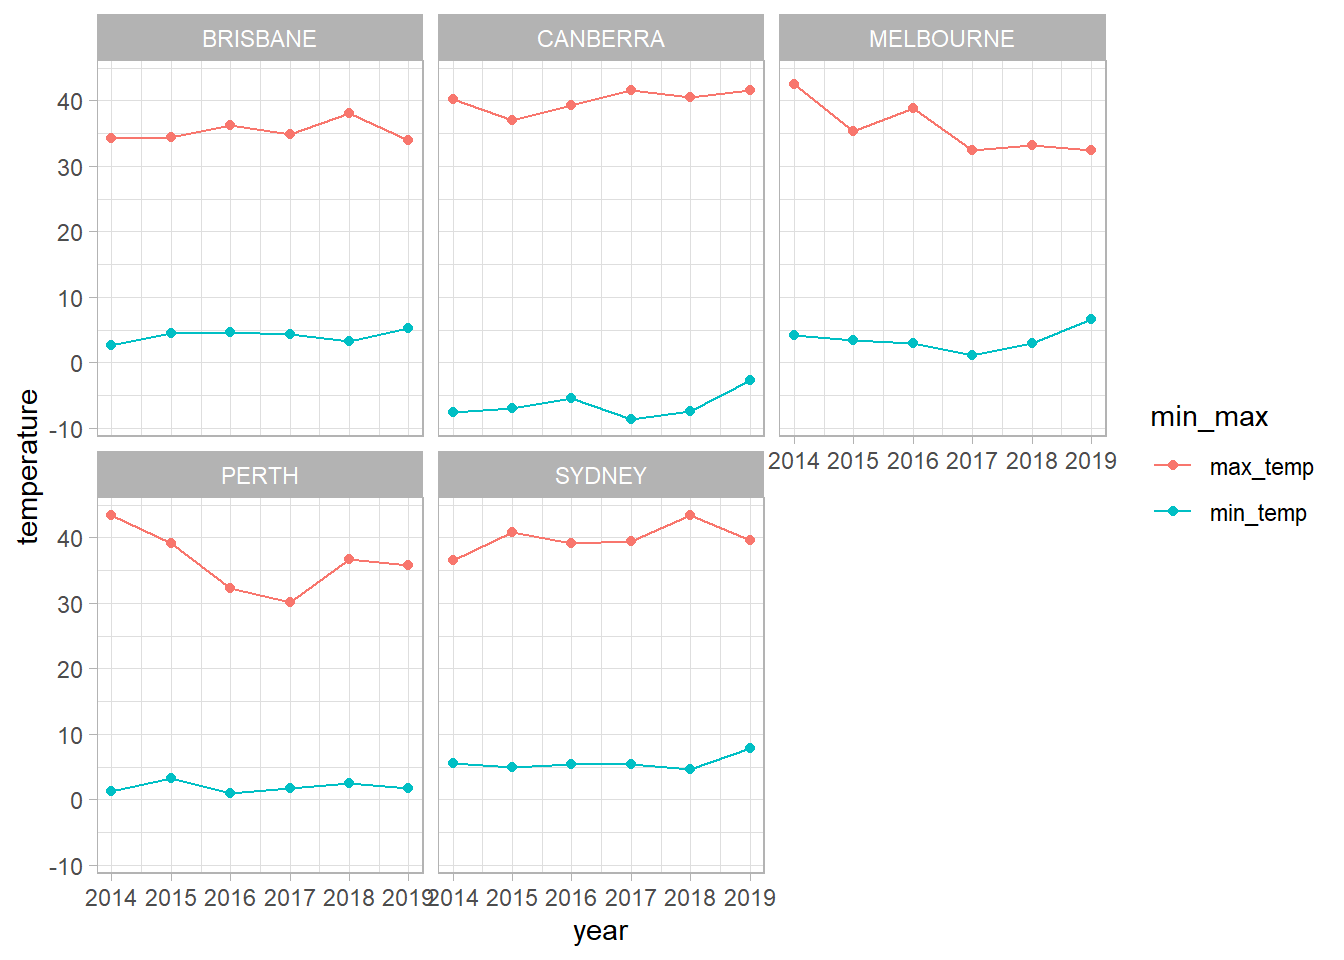
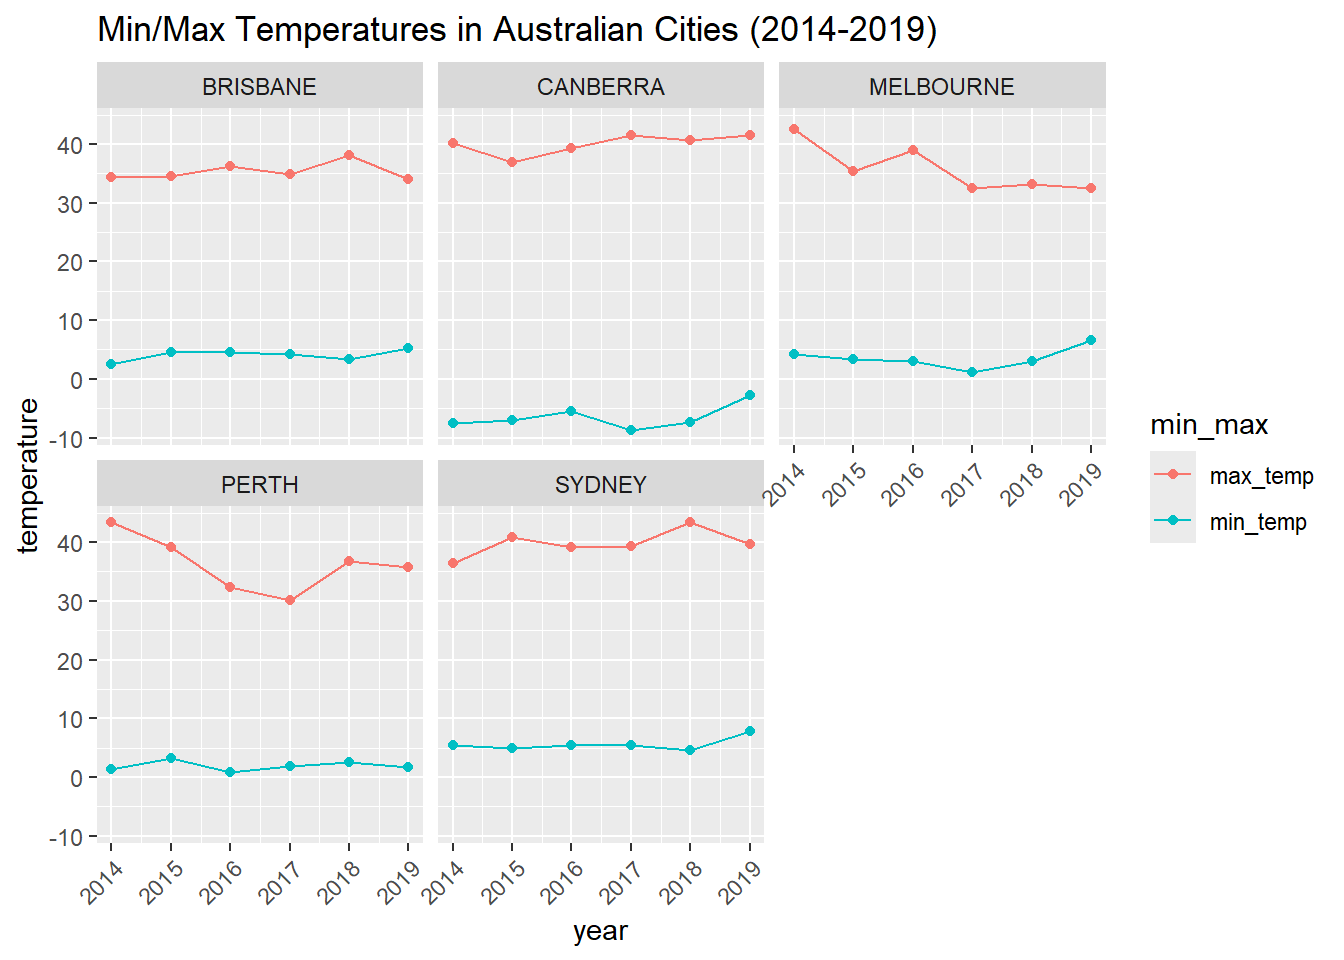
Finalized the project, all questions answered. Looks good to me :)

diff --git a/index.html b/index.html
@@ -6,7 +6,7 @@
 
 <meta name="viewport" content="width=device-width, initial-scale=1.0, user-scalable=yes">
 
-<meta name="author" content="Leonardo Collado Torres">
+<meta name="author" content="Matthew Jacoby">
 <meta name="description" content="Exploring temperature and rainfall in Australia">
 
 <title>Project 2</title>
@@ -133,20 +133,15 @@ window.Quarto = {
 
 <div class="quarto-title-meta-author">
   <div class="quarto-title-meta-heading">Author</div>
-  <div class="quarto-title-meta-heading">Affiliations</div>
+  <div class="quarto-title-meta-heading">Affiliation</div>
   
     <div class="quarto-title-meta-contents">
-    <p class="author"><a href="http://lcolladotor.github.io/">Leonardo Collado Torres</a> </p>
+    <p class="author"><a href="http://mjacob72.github.io/">Matthew Jacoby</a> </p>
   </div>
   <div class="quarto-title-meta-contents">
         <p class="affiliation">
-            <a href="https://libd.org/">
-            Lieber Institute for Brain Development
-            </a>
-          </p>
-        <p class="affiliation">
-            <a href="https://publichealth.jhu.edu/departments/biostatistics">
-            Johns Hopkins Bloomberg School of Public Health Department of Biostatistics
+            <a href="https://publichealth.jhu.edu/departments/molecular-microbiology-and-immunology">
+            Department of Molecular Microbilogy and Immunology
             </a>
           </p>
       </div>
@@ -388,7 +383,17 @@ Note
 </div>
 </div>
 <p>Include example of output from your (function showing the output when using two different levels of <code>conf</code>.</p>
-<p>$$ ::: callout-note If you want to check if your (function output matches an existing (function in R, consider a vector <span class="math inline">\(x\)</span> of length <span class="math inline">\(N\)</span> and see if the following two code chunks match.</p>
+<div class="callout callout-style-default callout-note callout-titled">
+<div class="callout-header d-flex align-content-center">
+<div class="callout-icon-container">
+<i class="callout-icon"></i>
+</div>
+<div class="callout-title-container flex-fill">
+Note
+</div>
+</div>
+<div class="callout-body-container callout-body">
+<p>If you want to check if your (function output matches an existing (function in R, consider a vector <span class="math inline">\(x\)</span> of length <span class="math inline">\(N\)</span> and see if the following two code chunks match.</p>
 <div class="cell">
 <div class="code-copy-outer-scaffold"><div class="sourceCode cell-code" id="cb35"><pre class="sourceCode r code-with-copy"><code class="sourceCode r"><span id="cb35-1"><a href="#cb35-1" aria-hidden="true" tabindex="-1"></a><span class="fu">calculate_CI</span>(x, <span class="at">conf =</span> <span class="fl">0.95</span>)</span></code></pre></div><button title="Copy to Clipboard" class="code-copy-button"><i class="bi"></i></button></div>
 </div>
@@ -399,9 +404,13 @@ Note
 <span id="cb36-4"><a href="#cb36-4" aria-hidden="true" tabindex="-1"></a>Calculate a <span class="dv">95</span>% confidence interval</span>
 <span id="cb36-5"><a href="#cb36-5" aria-hidden="true" tabindex="-1"></a><span class="fu">confint</span>(fit, <span class="at">level =</span> <span class="fl">0.95</span>)</span></code></pre></div><button title="Copy to Clipboard" class="code-copy-button"><i class="bi"></i></button></div>
 </div>
-<p>::: $$ # Part 2: Wrangling data</p>
-<p>In this part, we will practice our wrangling skills with the tidyverse that we learned about in module 1.</p>
+</div>
+</div>
 </section>
+</section>
+<section id="part-2-wrangling-data" class="level1">
+<h1>Part 2: Wrangling data</h1>
+<p>In this part, we will practice our wrangling skills with the tidyverse that we learned about in module 1.</p>
 <section id="data" class="level3">
 <h3 class="anchored" data-anchor-id="data">Data</h3>
 <p>The two datasets for this part of the assignment comes from <a href="https://www.tidytuesday.com">TidyTuesday</a>. Specifically, we will use the following data from January 2020, which I have provided for you below:</p>
@@ -582,7 +591,12 @@ Note
 <span id="cb46-22"><a href="#cb46-22" aria-hidden="true" tabindex="-1"></a><span class="fu">geom_point</span>()<span class="sc">+</span></span>
 <span id="cb46-23"><a href="#cb46-23" aria-hidden="true" tabindex="-1"></a><span class="fu">geom_line</span>()<span class="sc">+</span></span>
 <span id="cb46-24"><a href="#cb46-24" aria-hidden="true" tabindex="-1"></a><span class="fu">facet_wrap</span>(<span class="sc">~</span> city_name)<span class="sc">+</span></span>
-<span id="cb46-25"><a href="#cb46-25" aria-hidden="true" tabindex="-1"></a><span class="fu">theme_light</span>()</span></code></pre></div><button title="Copy to Clipboard" class="code-copy-button"><i class="bi"></i></button></div>
+<span id="cb46-25"><a href="#cb46-25" aria-hidden="true" tabindex="-1"></a><span class="fu">theme</span>(</span>
+<span id="cb46-26"><a href="#cb46-26" aria-hidden="true" tabindex="-1"></a>    <span class="at">axis.text.x =</span> <span class="fu">element_text</span>(<span class="at">angle =</span> <span class="dv">45</span>, <span class="at">hjust =</span> <span class="sc">+</span><span class="fl">1.0</span>)</span>
+<span id="cb46-27"><a href="#cb46-27" aria-hidden="true" tabindex="-1"></a>)<span class="sc">+</span></span>
+<span id="cb46-28"><a href="#cb46-28" aria-hidden="true" tabindex="-1"></a><span class="fu">labs</span>(</span>
+<span id="cb46-29"><a href="#cb46-29" aria-hidden="true" tabindex="-1"></a>    <span class="at">title =</span> <span class="st">"Min/Max Temperatures in Australian Cities (2014-2019)"</span></span>
+<span id="cb46-30"><a href="#cb46-30" aria-hidden="true" tabindex="-1"></a>)</span></code></pre></div><button title="Copy to Clipboard" class="code-copy-button"><i class="bi"></i></button></div>
 <div class="cell-output-display">
 <div>
 <figure class="figure">
@@ -686,7 +700,7 @@ Note
 <section id="error-test-eval-false-to-allow-page-to-render" class="level1">
 <h1>Error test (eval = FALSE to allow page to render)</h1>
 <div class="cell">
-<div class="code-copy-outer-scaffold"><div class="sourceCode cell-code" id="cb52"><pre class="sourceCode r code-with-copy"><code class="sourceCode r"><span id="cb52-1"><a href="#cb52-1" aria-hidden="true" tabindex="-1"></a><span class="fu">city_year</span>(<span class="st">"PERTH"</span>, <span class="dv">2053</span>)</span></code></pre></div><button title="Copy to Clipboard" class="code-copy-button"><i class="bi"></i></button></div>
+<div class="code-copy-outer-scaffold"><div class="sourceCode cell-code" id="cb52"><pre class="sourceCode r code-with-copy"><code class="sourceCode r"><span id="cb52-1"><a href="#cb52-1" aria-hidden="true" tabindex="-1"></a><span class="co">#city_year("PERTH", 2053)</span></span></code></pre></div><button title="Copy to Clipboard" class="code-copy-button"><i class="bi"></i></button></div>
 </div>
 </section>
 <section id="example-output" class="level1">
@@ -713,39 +727,36 @@ Note
 <span id="cb53-5"><a href="#cb53-5" aria-hidden="true" tabindex="-1"></a>        <span class="at">avg_rainfall =</span> <span class="fu">round</span>(<span class="fu">sample_mean</span>(rainfall), <span class="at">digits =</span> <span class="dv">2</span>),</span>
 <span id="cb53-6"><a href="#cb53-6" aria-hidden="true" tabindex="-1"></a>        <span class="at">std_dev =</span> <span class="fu">round</span>(<span class="fu">sample_sd</span>(rainfall), <span class="at">digits =</span> <span class="dv">2</span>),</span>
 <span id="cb53-7"><a href="#cb53-7" aria-hidden="true" tabindex="-1"></a>        <span class="at">lower_bound =</span> <span class="fu">round</span>(<span class="fu">calculate_CI</span>(rainfall, <span class="at">conf =</span> <span class="fl">0.95</span>)[<span class="dv">1</span>], <span class="at">digits =</span> <span class="dv">2</span>),</span>
-<span id="cb53-8"><a href="#cb53-8" aria-hidden="true" tabindex="-1"></a>        <span class="at">upper_bound =</span> <span class="fu">round</span>(<span class="fu">calculate_CI</span>(rainfall, <span class="at">conf =</span> <span class="fl">0.95</span>)[<span class="dv">2</span>], <span class="at">digits =</span> <span class="dv">2</span>)</span>
-<span id="cb53-9"><a href="#cb53-9" aria-hidden="true" tabindex="-1"></a>    )</span></code></pre></div><button title="Copy to Clipboard" class="code-copy-button"><i class="bi"></i></button></div>
-<div class="cell-output cell-output-stderr">
-<pre><code>`summarise()` has regrouped the output.
-ℹ Summaries were computed grouped by year and city_name.
-ℹ Output is grouped by year.
-ℹ Use `summarise(.groups = "drop_last")` to silence this message.
-ℹ Use `summarise(.by = c(year, city_name))` for per-operation grouping
-  (`?dplyr::dplyr_by`) instead.</code></pre>
-</div>
+<span id="cb53-8"><a href="#cb53-8" aria-hidden="true" tabindex="-1"></a>        <span class="at">upper_bound =</span> <span class="fu">round</span>(<span class="fu">calculate_CI</span>(rainfall, <span class="at">conf =</span> <span class="fl">0.95</span>)[<span class="dv">2</span>], <span class="at">digits =</span> <span class="dv">2</span>),</span>
+<span id="cb53-9"><a href="#cb53-9" aria-hidden="true" tabindex="-1"></a>        <span class="at">.groups =</span> <span class="st">"drop_last"</span></span>
+<span id="cb53-10"><a href="#cb53-10" aria-hidden="true" tabindex="-1"></a>    ) <span class="sc">%&gt;%</span></span>
+<span id="cb53-11"><a href="#cb53-11" aria-hidden="true" tabindex="-1"></a>        <span class="fu">ungroup</span>()</span></code></pre></div><button title="Copy to Clipboard" class="code-copy-button"><i class="bi"></i></button></div>
 </div>
 </section>
 <section id="part-4b-tasks" class="level3">
 <h3 class="anchored" data-anchor-id="part-4b-tasks">Part 4B: Tasks</h3>
 <p>Using the <code>rain_df</code>, plots the estimates of mean rainfall and the 95% confidence intervals on the same plot. There should be a separate faceted plot for each city. Think about using <code>ggplot()</code> with both <code>geom_point()</code> (and <code>geom_line()</code> to connect the points) for the means and <code>geom_errorbar()</code> for the lower and upper bounds of the confidence interval. Check <a href="https://r-graphics.org/RECIPE-ANNOTATE-ERROR-BAR.html" class="uri">https://r-graphics.org/RECIPE-ANNOTATE-ERROR-BAR.html</a> and/or the official documentation <a href="https://ggplot2.tidyverse.org/reference/geom_linerange.html" class="uri">https://ggplot2.tidyverse.org/reference/geom_linerange.html</a> for examples of how to use <code>geom_errorbar()</code>.</p>
 <div class="cell">
-<div class="code-copy-outer-scaffold"><div class="sourceCode cell-code" id="cb55"><pre class="sourceCode r code-with-copy"><code class="sourceCode r"><span id="cb55-1"><a href="#cb55-1" aria-hidden="true" tabindex="-1"></a><span class="fu">as.factor</span>(rain_df<span class="sc">$</span>city_name)</span></code></pre></div><button title="Copy to Clipboard" class="code-copy-button"><i class="bi"></i></button></div>
-<div class="cell-output cell-output-stdout">
-<pre><code> [1] BRISBANE  CANBERRA  MELBOURNE PERTH     SYDNEY    BRISBANE  CANBERRA 
- [8] MELBOURNE PERTH     SYDNEY    BRISBANE  CANBERRA  MELBOURNE PERTH    
-[15] SYDNEY    BRISBANE  CANBERRA  MELBOURNE PERTH     SYDNEY    BRISBANE 
-[22] CANBERRA  MELBOURNE PERTH     SYDNEY    BRISBANE  CANBERRA  MELBOURNE
-[29] PERTH     SYDNEY   
-Levels: BRISBANE CANBERRA MELBOURNE PERTH SYDNEY</code></pre>
-</div>
-<div class="code-copy-outer-scaffold"><div class="sourceCode cell-code" id="cb57"><pre class="sourceCode r code-with-copy"><code class="sourceCode r"><span id="cb57-1"><a href="#cb57-1" aria-hidden="true" tabindex="-1"></a><span class="fu">ggplot</span>(</span>
-<span id="cb57-2"><a href="#cb57-2" aria-hidden="true" tabindex="-1"></a>    rain_df, </span>
-<span id="cb57-3"><a href="#cb57-3" aria-hidden="true" tabindex="-1"></a>    <span class="fu">aes</span>(<span class="at">x =</span> year, <span class="at">y =</span> avg_rainfall, <span class="at">ymin =</span> lower_bound, <span class="at">ymax =</span> upper_bound, <span class="at">color =</span> city_name)</span>
-<span id="cb57-4"><a href="#cb57-4" aria-hidden="true" tabindex="-1"></a>)<span class="sc">+</span></span>
-<span id="cb57-5"><a href="#cb57-5" aria-hidden="true" tabindex="-1"></a>    <span class="fu">geom_errorbar</span>()<span class="sc">+</span></span>
-<span id="cb57-6"><a href="#cb57-6" aria-hidden="true" tabindex="-1"></a>    <span class="fu">geom_point</span>(<span class="fu">aes</span>(<span class="at">x =</span> year, <span class="at">y =</span> avg_rainfall))<span class="sc">+</span></span>
-<span id="cb57-7"><a href="#cb57-7" aria-hidden="true" tabindex="-1"></a>    <span class="fu">geom_line</span>()<span class="sc">+</span></span>
-<span id="cb57-8"><a href="#cb57-8" aria-hidden="true" tabindex="-1"></a>    <span class="fu">facet_grid</span>(<span class="sc">~</span> city_name)</span></code></pre></div><button title="Copy to Clipboard" class="code-copy-button"><i class="bi"></i></button></div>
+<div class="code-copy-outer-scaffold"><div class="sourceCode cell-code" id="cb54"><pre class="sourceCode r code-with-copy"><code class="sourceCode r"><span id="cb54-1"><a href="#cb54-1" aria-hidden="true" tabindex="-1"></a>rain_df <span class="ot">&lt;-</span> rain_df <span class="sc">%&gt;%</span></span>
+<span id="cb54-2"><a href="#cb54-2" aria-hidden="true" tabindex="-1"></a>    <span class="fu">mutate</span>(<span class="at">city_name =</span> <span class="fu">str_to_title</span>(<span class="fu">str_to_lower</span>(city_name)))</span>
+<span id="cb54-3"><a href="#cb54-3" aria-hidden="true" tabindex="-1"></a><span class="fu">ggplot</span>(</span>
+<span id="cb54-4"><a href="#cb54-4" aria-hidden="true" tabindex="-1"></a>    rain_df, </span>
+<span id="cb54-5"><a href="#cb54-5" aria-hidden="true" tabindex="-1"></a>    <span class="fu">aes</span>(<span class="at">x =</span> year, <span class="at">y =</span> avg_rainfall, <span class="at">ymin =</span> lower_bound, <span class="at">ymax =</span> upper_bound, <span class="at">color =</span> city_name)</span>
+<span id="cb54-6"><a href="#cb54-6" aria-hidden="true" tabindex="-1"></a>)<span class="sc">+</span></span>
+<span id="cb54-7"><a href="#cb54-7" aria-hidden="true" tabindex="-1"></a>    <span class="fu">geom_errorbar</span>()<span class="sc">+</span></span>
+<span id="cb54-8"><a href="#cb54-8" aria-hidden="true" tabindex="-1"></a>    <span class="fu">geom_point</span>(<span class="fu">aes</span>(<span class="at">x =</span> year, <span class="at">y =</span> avg_rainfall))<span class="sc">+</span></span>
+<span id="cb54-9"><a href="#cb54-9" aria-hidden="true" tabindex="-1"></a>    <span class="fu">geom_line</span>()<span class="sc">+</span></span>
+<span id="cb54-10"><a href="#cb54-10" aria-hidden="true" tabindex="-1"></a>    <span class="fu">facet_grid</span>(<span class="sc">~</span> city_name)<span class="sc">+</span></span>
+<span id="cb54-11"><a href="#cb54-11" aria-hidden="true" tabindex="-1"></a>    <span class="fu">theme</span>(<span class="at">axis.text.x =</span> <span class="fu">element_text</span>(<span class="at">angle =</span> <span class="dv">45</span>, <span class="at">hjust =</span> <span class="sc">+</span><span class="fl">1.0</span>)</span>
+<span id="cb54-12"><a href="#cb54-12" aria-hidden="true" tabindex="-1"></a>    )<span class="sc">+</span></span>
+<span id="cb54-13"><a href="#cb54-13" aria-hidden="true" tabindex="-1"></a>    <span class="fu">labs</span>(</span>
+<span id="cb54-14"><a href="#cb54-14" aria-hidden="true" tabindex="-1"></a>        <span class="at">title =</span> <span class="st">"Average Annual Rainfall in Australian Cities (2014-2019)"</span>,</span>
+<span id="cb54-15"><a href="#cb54-15" aria-hidden="true" tabindex="-1"></a>        <span class="at">subtitle =</span> <span class="st">"Decreasing trend in annual rainfall."</span>,</span>
+<span id="cb54-16"><a href="#cb54-16" aria-hidden="true" tabindex="-1"></a>        <span class="at">y =</span> <span class="st">"Average Rainfall (in)"</span></span>
+<span id="cb54-17"><a href="#cb54-17" aria-hidden="true" tabindex="-1"></a>    )<span class="sc">+</span></span>
+<span id="cb54-18"><a href="#cb54-18" aria-hidden="true" tabindex="-1"></a>    <span class="fu">scale_color_discrete</span>(</span>
+<span id="cb54-19"><a href="#cb54-19" aria-hidden="true" tabindex="-1"></a>        <span class="at">name =</span> <span class="st">"City"</span></span>
+<span id="cb54-20"><a href="#cb54-20" aria-hidden="true" tabindex="-1"></a>    )</span></code></pre></div><button title="Copy to Clipboard" class="code-copy-button"><i class="bi"></i></button></div>
 <div class="cell-output-display">
 <div>
 <figure class="figure">
@@ -759,8 +770,8 @@ Levels: BRISBANE CANBERRA MELBOURNE PERTH SYDNEY</code></pre>
 <section id="r-session-information" class="level1">
 <h1>R session information</h1>
 <div class="cell">
-<div class="code-copy-outer-scaffold"><div class="sourceCode cell-code" id="cb58"><pre class="sourceCode r code-with-copy"><code class="sourceCode r"><span id="cb58-1"><a href="#cb58-1" aria-hidden="true" tabindex="-1"></a><span class="fu">options</span>(<span class="at">width =</span> <span class="dv">120</span>)</span>
-<span id="cb58-2"><a href="#cb58-2" aria-hidden="true" tabindex="-1"></a>sessioninfo<span class="sc">::</span><span class="fu">session_info</span>()</span></code></pre></div><button title="Copy to Clipboard" class="code-copy-button"><i class="bi"></i></button></div>
+<div class="code-copy-outer-scaffold"><div class="sourceCode cell-code" id="cb55"><pre class="sourceCode r code-with-copy"><code class="sourceCode r"><span id="cb55-1"><a href="#cb55-1" aria-hidden="true" tabindex="-1"></a><span class="fu">options</span>(<span class="at">width =</span> <span class="dv">120</span>)</span>
+<span id="cb55-2"><a href="#cb55-2" aria-hidden="true" tabindex="-1"></a>sessioninfo<span class="sc">::</span><span class="fu">session_info</span>()</span></code></pre></div><button title="Copy to Clipboard" class="code-copy-button"><i class="bi"></i></button></div>
 <div class="cell-output cell-output-stdout">
 <pre><code>─ Session info ───────────────────────────────────────────────────────────────────────────────────────────────────────
  setting  value
@@ -772,7 +783,7 @@ Levels: BRISBANE CANBERRA MELBOURNE PERTH SYDNEY</code></pre>
  collate  English_United States.utf8
  ctype    English_United States.utf8
  tz       America/New_York
- date     2026-09-29
+ date     2026-09-30
  pandoc   3.10 @ c:\\Users\\mjaco\\AppData\\Local\\Programs\\Positron\\resources\\app\\quarto\\bin\\tools/ (via rmarkdown)
  quarto   1.10.18 @ c:\\Users\\mjaco\\AppData\\Local\\Programs\\Positron\\RESOUR~1\\app\\quarto\\bin\\quarto.exe
 
